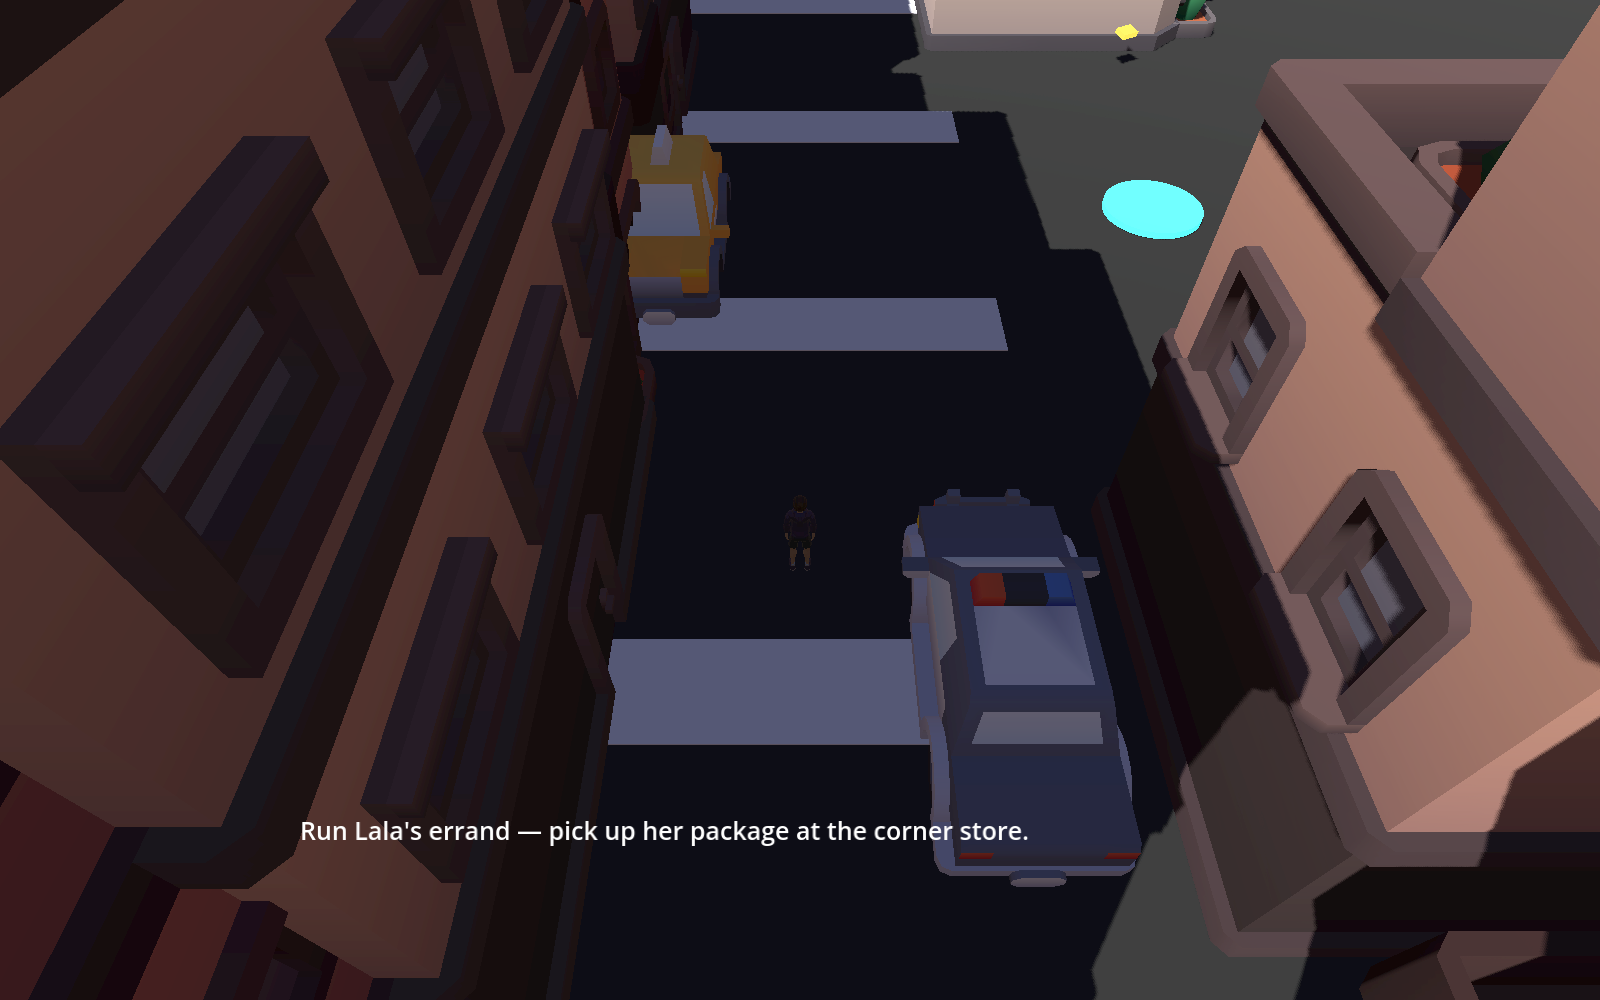
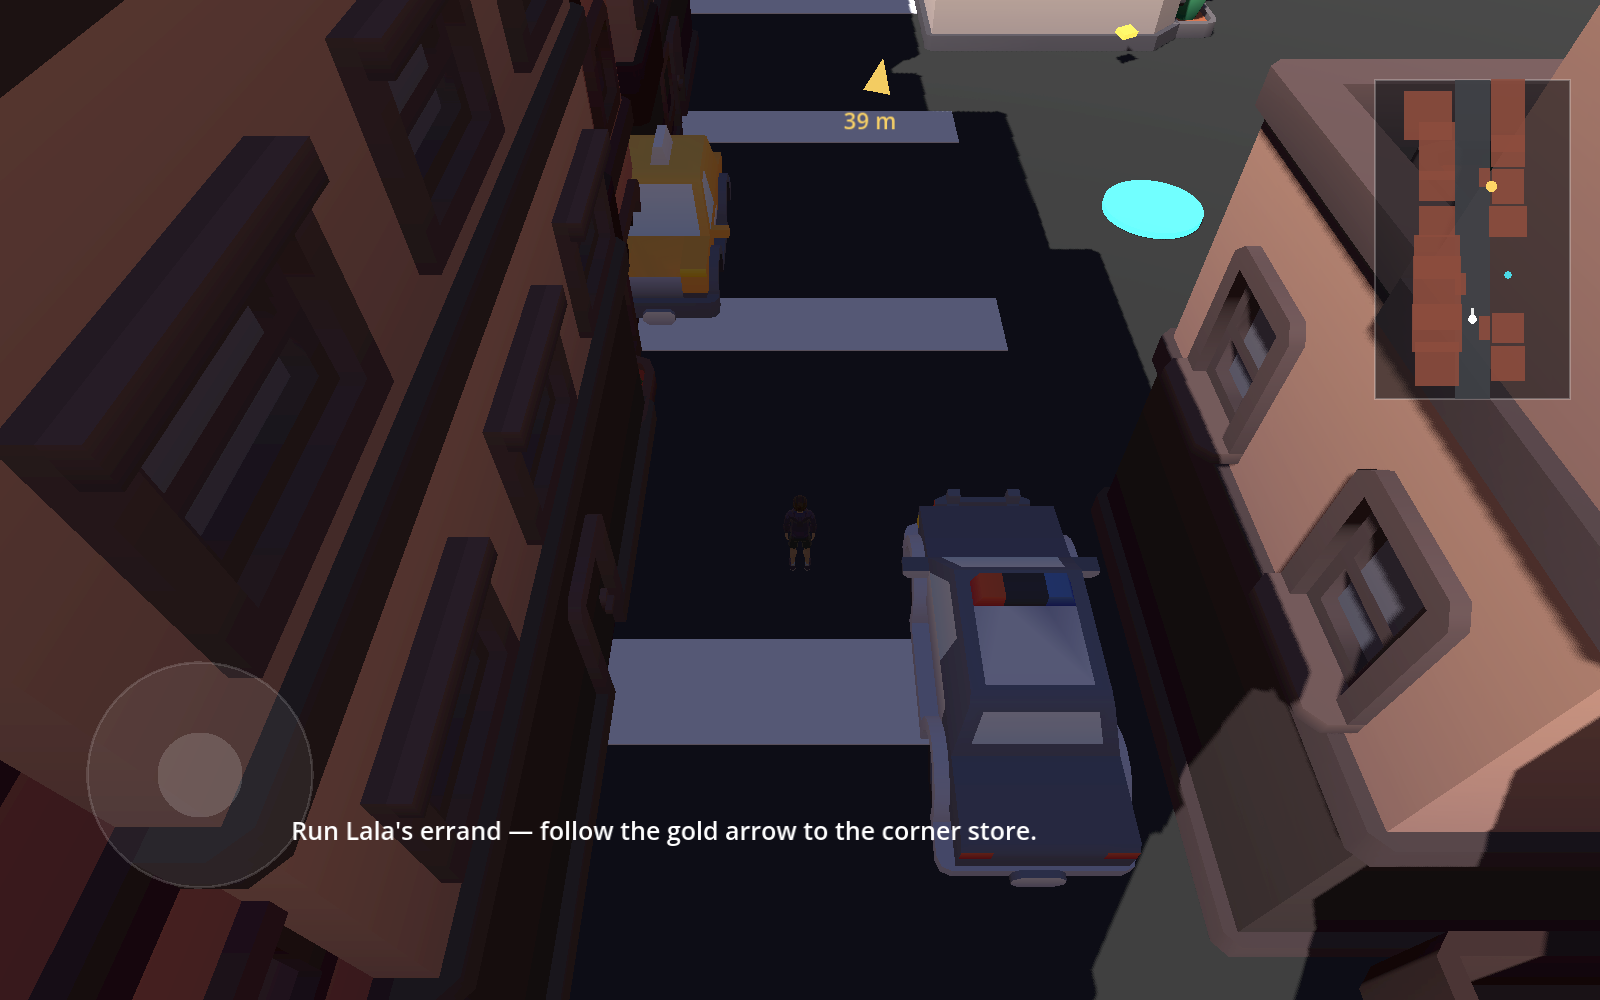
Guidance pass from first playtest: minimap, objective arrow, anchored stick
- Minimap (top-right): block layout, road, study point, objective dot,
  player dot with facing; Witness shards appear on it while Discerning
- Gold objective arrow with live distance, clamps to screen edge
- Virtual joystick now anchored bottom-left with a visible resting pad
- Brighter, taller objective beacon; objective texts reference the arrow

diff --git a/web/index.html b/web/index.html
@@ -111,7 +111,7 @@ body {
 
 		<script src="index.js"></script>
 		<script>
-const GODOT_CONFIG = {"args":[],"canvasResizePolicy":2,"emscriptenPoolSize":8,"ensureCrossOriginIsolationHeaders":true,"executable":"index","experimentalVK":false,"fileSizes":{"index.pck":7888112,"index.wasm":37700666},"focusCanvas":true,"gdextensionLibs":[],"godotPoolSize":4};
+const GODOT_CONFIG = {"args":[],"canvasResizePolicy":2,"emscriptenPoolSize":8,"ensureCrossOriginIsolationHeaders":true,"executable":"index","experimentalVK":false,"fileSizes":{"index.pck":7918876,"index.wasm":37700666},"focusCanvas":true,"gdextensionLibs":[],"godotPoolSize":4};
 const GODOT_THREADS_ENABLED = false;
 const engine = new Engine(GODOT_CONFIG);
 